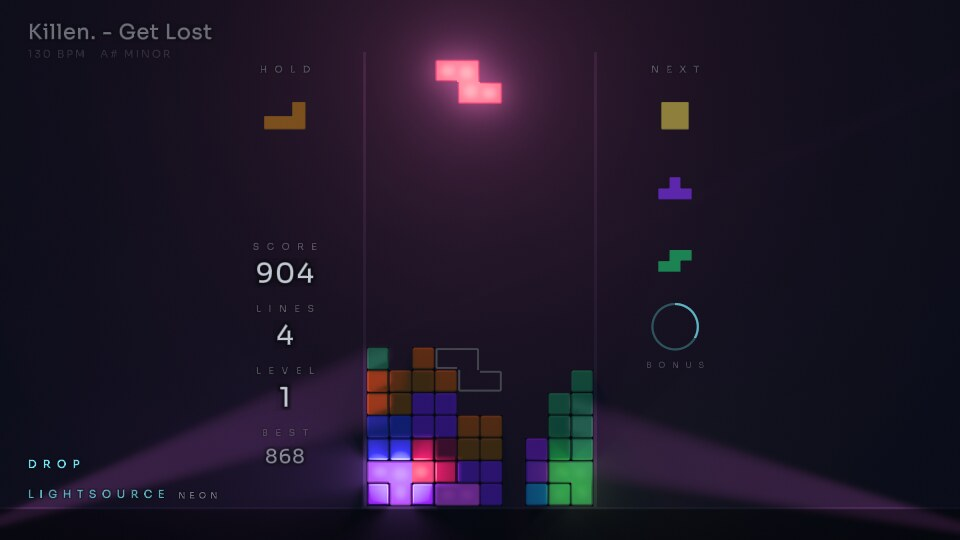
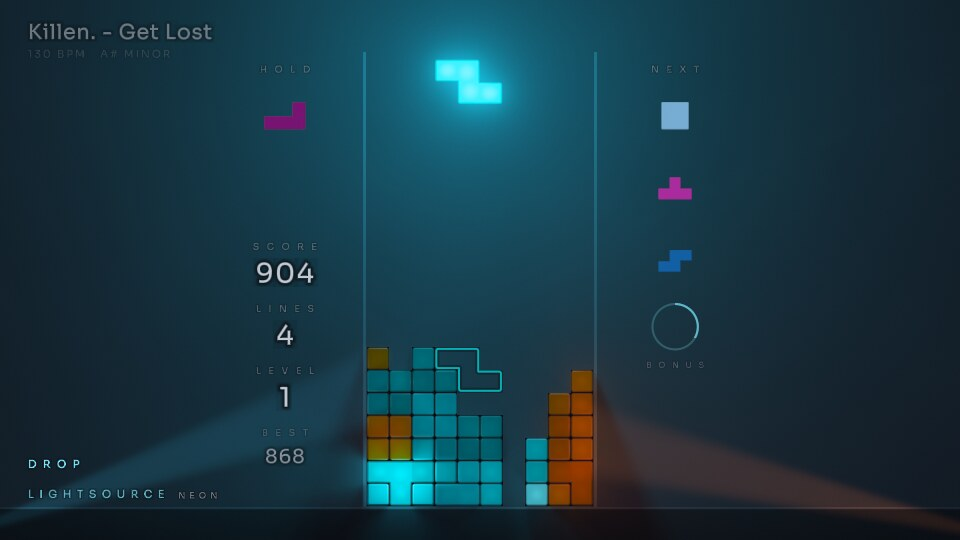
LIGHTSOURCE: a self-lit ghost, a lifted floor for the darkest places, a readable hold
- the ghost: a thin line in the falling piece's hue on a darker rim, readable whatever the light behind it
  (its connected sides run on past the cells: no rim at the seams)
- the ambient fill raised (scene and blocks): shadows, holes and the far room never crush to black
- the hold piece once used: 65% instead of 40%
- docs/universes/lightsource.jpg re-rendered (a NEON drop, same framing)

Claude-Session: https://claude.ai/code/session_01DBPtRFs6M8Q4o53Qj6BCRE

diff --git a/src/universes/lightsource/lightsource.cpp b/src/universes/lightsource/lightsource.cpp
@@ -764,12 +764,16 @@ void LightsourceUniverse::buildBlocks(const Game& g, float ember) {
         Piece gp = p;
         gp.y = g.ghostY();
         if (gp.y > p.y) {
+            // the ghost: self-lit in the falling piece's hue (readable far from any light), on a dark rim (readable
+            // on a lit wall too)
+            vec3 ghostCol = lightOf(p.type, monoG_);
+            ghostCol = ghostCol * (0.32f / std::max(0.05f, lum(ghostCol)));
             int gc[4][2];
             g.pieceCells(gp, gc);
             for (int i = 0; i < 4; i++) {
                 if (gc[i][1] < Game::HIDDEN) continue;
                 const vec3 w = layout::cellPos((float)gc[i][0], (float)gc[i][1]);
-                block(v2(w.x, w.y), 1.f, vec3(0.f), 1.f, vec3(0.f), connOf(gc, i), 0.32f);
+                block(v2(w.x, w.y), 1.f, ghostCol, 1.f, vec3(0.f), connOf(gc, i), 1.f);
             }
         }
         const float dx = g.pieceVisualX() - p.x, dy = g.pieceVisualY() - p.y;
@@ -818,7 +822,7 @@ void LightsourceUniverse::buildBlocks(const Game& g, float ember) {
             block(pos, sc, pc * albK, 2.f, lightOf(type) * warm, conn, alpha);
         }
     };
-    preview(g.holdType(), v2(layout::HOLD_CENTER.x, layout::HOLD_CENTER.y), layout::previewScale(0), g.holdUsed() ? 0.4f : 1.f, 0.f);
+    preview(g.holdType(), v2(layout::HOLD_CENTER.x, layout::HOLD_CENTER.y), layout::previewScale(0), g.holdUsed() ? 0.65f : 1.f, 0.f);
     for (int i = 0; i < 3; i++) {
         const vec3 c = layout::nextCenter(i);
         preview(g.next(i), v2(c.x, c.y), layout::previewScale(i), 1.f, i == 0 ? 0.08f : 0.f);
@@ -1305,7 +1309,7 @@ void LightsourceUniverse::render(const Frame& f, GLuint fbo) {
     const float ltx = 1.f / lightW_, lty = 1.f / lightH_;
     // (in a drop the room's fill takes the drop's color too)
     const vec3 ambC = lerp(ambient_ * (1.f / std::max(0.02f, lum(ambient_))), (dropHue_ * (1.f / std::max(0.05f, lum(dropHue_))) + dropHue2_ * (1.f / std::max(0.05f, lum(dropHue2_)))) * 0.5f, 0.55f * monoG_);
-    const vec3 amb = ambC * (0.035f * ambK);
+    const vec3 amb = ambC * (0.08f * ambK); // (the darkest places never crushed: holes and shadowed blocks read)
     sceneT_.bind();
     glUseProgram(progScene_);
     glActiveTexture(GL_TEXTURE0);
@@ -1342,7 +1346,7 @@ void LightsourceUniverse::render(const Frame& f, GLuint fbo) {
     setMat(progBlock_, "uVP", vp_);
     set1f(progBlock_, "uPx", px_);
     set3f(progBlock_, "uAmbient", amb);
-    set1f(progBlock_, "uAmbBlock", 3.f);
+    set1f(progBlock_, "uAmbBlock", 3.4f);
     set3f(progBlock_, "uGhost", ghost_);
     set1f(progBlock_, "uBridge", smoothstepf(0.f, 1.f, bridge));
     set3f(progBlock_, "uBridgeInk", bridge_.ink);

diff --git a/src/universes/lightsource/shaders.hpp b/src/universes/lightsource/shaders.hpp
@@ -257,8 +257,10 @@ void main() {
     int conn = int(vA2.w + 0.5);
     vec2 q = vQ;
     float g = kind > 0.5 && kind < 1.5 ? 0.065 : 0.035;
-    vec2 lo = vec2((conn & 1) != 0 ? -0.62 : -0.5 + g, (conn & 8) != 0 ? -0.62 : -0.5 + g);
-    vec2 hi = vec2((conn & 2) != 0 ? 0.62 : 0.5 - g, (conn & 4) != 0 ? 0.62 : 0.5 - g);
+    // (a connected side runs on past the cell: far enough that the ghost's rim never shows at the seam)
+    float ext = kind > 0.5 && kind < 1.5 ? 0.9 : 0.62;
+    vec2 lo = vec2((conn & 1) != 0 ? -ext : -0.5 + g, (conn & 8) != 0 ? -ext : -0.5 + g);
+    vec2 hi = vec2((conn & 2) != 0 ? ext : 0.5 - g, (conn & 4) != 0 ? ext : 0.5 - g);
     vec2 c = (lo + hi) * 0.5, he = (hi - lo) * 0.5;
     float rad = 0.1;
     vec2 qc = q - c;
@@ -275,12 +277,16 @@ void main() {
     float aa = uPx / max(scale, 1e-3);
     vec3 alb = vA1.rgb, em = vA2.rgb;
     if (kind > 0.5 && kind < 1.5) {
-        // the ghost: a thin outline just inside the piece's contour
+        // the ghost: a thin self-lit outline just inside the piece's contour, in the falling piece's hue, on a
+        // darker rim on both sides of it: it reads whatever the light behind it
         // (the ghost's shape is inset by 0.065: the line runs along its edge)
         float line = 1.0 - smoothstep(0.0, aa * 1.2, abs(sd + 0.012) - 0.012);
-        float a = line * vA0.w;
-        vec3 col = mix(uGhost, uBridgeInk, uBridge);
-        frag = vec4(col * a, a);
+        float rim = 1.0 - smoothstep(0.0, aa * 1.2, abs(sd + 0.012) - 0.012 - aa * 2.2);
+        vec3 hue = mix(alb, uBridgeInk, uBridge);
+        float aRim = 0.5 * rim * (1.0 - line);
+        vec3 col = hue * line;
+        float a = line + aRim;
+        frag = vec4(col, min(a, 1.0)) * vA0.w;
         return;
     }
     if (kind > 2.5) {

diff --git a/docs/universes.md b/docs/universes.md
@@ -134,7 +134,7 @@ Glass cubes in the dark, crossed by slow beams of light. A near-black room where
 
 ![LIGHTSOURCE](universes/lightsource.jpg)
 
-A dim room where the falling piece is the light. One world: a dark plaster wall, a floor under the well and two thin rails marking its sides, under a low ambient fill that always keeps the stack, its holes and the well readable; the dominant light is the pieces themselves. The falling piece is the brightest thing on screen at every moment: its face glows in its own color around a white-hot core, a slight bloom around it, and it lights everything around it as an area light reaching across the whole room (its four cells, each sampled four times with a per-pixel rotated pattern), with a soft falloff and real shadows cast in the board's plane: the stack's blocks shadow the wall, the floor and each other, light pours down an open column, the holes under an overhang stay dark, the stack's shadows swing across the wall as the piece moves. The blocks facing a light catch it on their narrow bevels (the light's mean direction is kept per pixel), their far faces stay dark; the cells of one piece are drawn as one shape. A new piece eases its light in as it appears. When a piece locks it takes over the falling piece's light exactly (the room does not dim nor flare on the lock; a small glow along its contact, brighter after a hard drop), eases into a lamp's light over a few seconds, then dims smoothly (an eased fade of about two seconds, its color cooling to a deeper tone, nothing blinks) down to its ember while the next piece already falls and lights the room: two or three lights at once for a while; the cells keep a faint ember afterwards. The ghost is a thin unlit outline, one closed contour around the whole piece. Every variant paints its pieces in a two-color palette: side A (I, T, Z, L) in one hue, side B (O, J, S) in the other, the pieces of a side told apart by their value, and the falling light carries its piece's hue. Four variants: TUNGSTEN (warm against cold: amber and moonlit blue), NEON (hot magenta against cyan, in a concrete room), CANDLE (the flame's orange against a cool sea green, in a brown room) and SILVER (pale blush against pale ice, in a grey room under a white light), from the key, mode, brightness and tempo (`--universe "lightsource:candle"`). A break dims the room and softens the light (wide penumbrae, a short reach); mid is the plain light; a chorus adds a slow stage spot low in one corner whose narrow beam crosses the well (the stack cutting its shadow into it); a drop hardens the light (crisp shadows), brightens it, lights both corner spots (their beams rising and falling slowly) and relights the whole stack in another pair of fluorescent colors picked for that drop (designed pairs of electric magenta, acid green, cyan, hot orange, UV violet, laser yellow, hot pink and electric blue; from the song and the drop's number, never the last pair, in every variant, SILVER included): each piece keeps its side of the split (the A pieces take the first color, the B pieces the second) and becomes an emissive light again, each type at its own value so the pieces still read apart, casting shadows on the others; each corner spot takes one of the two colors and the room's fill both, the falling piece in its side's color at its brightest with a whiter core. Its first downbeat sends a ripple of light up through the stack from the bottom of the well, which brings the colors; for the whole drop each piece shimmers at its own slow pace and a few pieces swell and ease back every two beats (smoothly, no flicker), so the stack lives while the room's brightness stays steady and the falling piece remains the brightest light; when the drop ends they settle back to embers and their own colors over a couple of seconds. The five brightest pieces are lights with shadows, the others glow without shadow tests, so the cost stays bounded (a piece entering or leaving the five crossfades between the two; a light past the budget becomes a glow, never dropped). Every light change is continuous: nothing pulses or flashes but the clears. The room's brightness never pulses with the beat. A cleared row's blocks flare into light and burn out from their edges (under half a second, at the real speed even in slow motion), the row itself a line of light that floods sideways out of the well, lit from the very frame the blocks vanish, its afterlight lingering for a second where the rows were so the room never drops into the dark before the next piece; a Tetris slowly warms the embers of the whole stack; slow motion turns the light cold and lets the lamps linger; game over puts the stack's lights out row by row from the top, each block fading into the dark; it leaves and enters with the lights going out, the stack in plain ink. The light is computed in a half-resolution buffer (at most 540 lines): each sample is tested against the stack row by row with one 10-bit mask per row (rows falling after a clear at their visual height), so a frame costs a few dozen bit tests per pixel and light. The bonus gauge is a hairline ring. Its HUD font is Sora (SIL Open Font License, `src/universes/lightsource/OFL-Sora.txt`).
+A dim room where the falling piece is the light. One world: a dark plaster wall, a floor under the well and two thin rails marking its sides, under an ambient fill that never lets the darkest places sink to black (the shadows stay clear, the holes under an overhang and the blocks in shadow stay readable); the dominant light is the pieces themselves. The falling piece is the brightest thing on screen at every moment: its face glows in its own color around a white-hot core, a slight bloom around it, and it lights everything around it as an area light reaching across the whole room (its four cells, each sampled four times with a per-pixel rotated pattern), with a soft falloff and real shadows cast in the board's plane: the stack's blocks shadow the wall, the floor and each other, light pours down an open column, the holes under an overhang stay dark, the stack's shadows swing across the wall as the piece moves. The blocks facing a light catch it on their narrow bevels (the light's mean direction is kept per pixel), their far faces stay dark; the cells of one piece are drawn as one shape. A new piece eases its light in as it appears. When a piece locks it takes over the falling piece's light exactly (the room does not dim nor flare on the lock; a small glow along its contact, brighter after a hard drop), eases into a lamp's light over a few seconds, then dims smoothly (an eased fade of about two seconds, its color cooling to a deeper tone, nothing blinks) down to its ember while the next piece already falls and lights the room: two or three lights at once for a while; the cells keep a faint ember afterwards. The ghost is one closed contour around the whole piece, a thin self-lit line in the falling piece's hue on a darker rim: it reads anywhere, deep in shadow or on a lit wall. Every variant paints its pieces in a two-color palette: side A (I, T, Z, L) in one hue, side B (O, J, S) in the other, the pieces of a side told apart by their value, and the falling light carries its piece's hue. Four variants: TUNGSTEN (warm against cold: amber and moonlit blue), NEON (hot magenta against cyan, in a concrete room), CANDLE (the flame's orange against a cool sea green, in a brown room) and SILVER (pale blush against pale ice, in a grey room under a white light), from the key, mode, brightness and tempo (`--universe "lightsource:candle"`). A break dims the room and softens the light (wide penumbrae, a short reach); mid is the plain light; a chorus adds a slow stage spot low in one corner whose narrow beam crosses the well (the stack cutting its shadow into it); a drop hardens the light (crisp shadows), brightens it, lights both corner spots (their beams rising and falling slowly) and relights the whole stack in another pair of fluorescent colors picked for that drop (designed pairs of electric magenta, acid green, cyan, hot orange, UV violet, laser yellow, hot pink and electric blue; from the song and the drop's number, never the last pair, in every variant, SILVER included): each piece keeps its side of the split (the A pieces take the first color, the B pieces the second) and becomes an emissive light again, each type at its own value so the pieces still read apart, casting shadows on the others; each corner spot takes one of the two colors and the room's fill both, the falling piece in its side's color at its brightest with a whiter core. Its first downbeat sends a ripple of light up through the stack from the bottom of the well, which brings the colors; for the whole drop each piece shimmers at its own slow pace and a few pieces swell and ease back every two beats (smoothly, no flicker), so the stack lives while the room's brightness stays steady and the falling piece remains the brightest light; when the drop ends they settle back to embers and their own colors over a couple of seconds. The five brightest pieces are lights with shadows, the others glow without shadow tests, so the cost stays bounded (a piece entering or leaving the five crossfades between the two; a light past the budget becomes a glow, never dropped). Every light change is continuous: nothing pulses or flashes but the clears. The room's brightness never pulses with the beat. A cleared row's blocks flare into light and burn out from their edges (under half a second, at the real speed even in slow motion), the row itself a line of light that floods sideways out of the well, lit from the very frame the blocks vanish, its afterlight lingering for a second where the rows were so the room never drops into the dark before the next piece; a Tetris slowly warms the embers of the whole stack; slow motion turns the light cold and lets the lamps linger; game over puts the stack's lights out row by row from the top, each block fading into the dark; it leaves and enters with the lights going out, the stack in plain ink. The light is computed in a half-resolution buffer (at most 540 lines): each sample is tested against the stack row by row with one 10-bit mask per row (rows falling after a clear at their visual height), so a frame costs a few dozen bit tests per pixel and light. The bonus gauge is a hairline ring. Its HUD font is Sora (SIL Open Font License, `src/universes/lightsource/OFL-Sora.txt`).
 
 ## NOTEPAD
 
